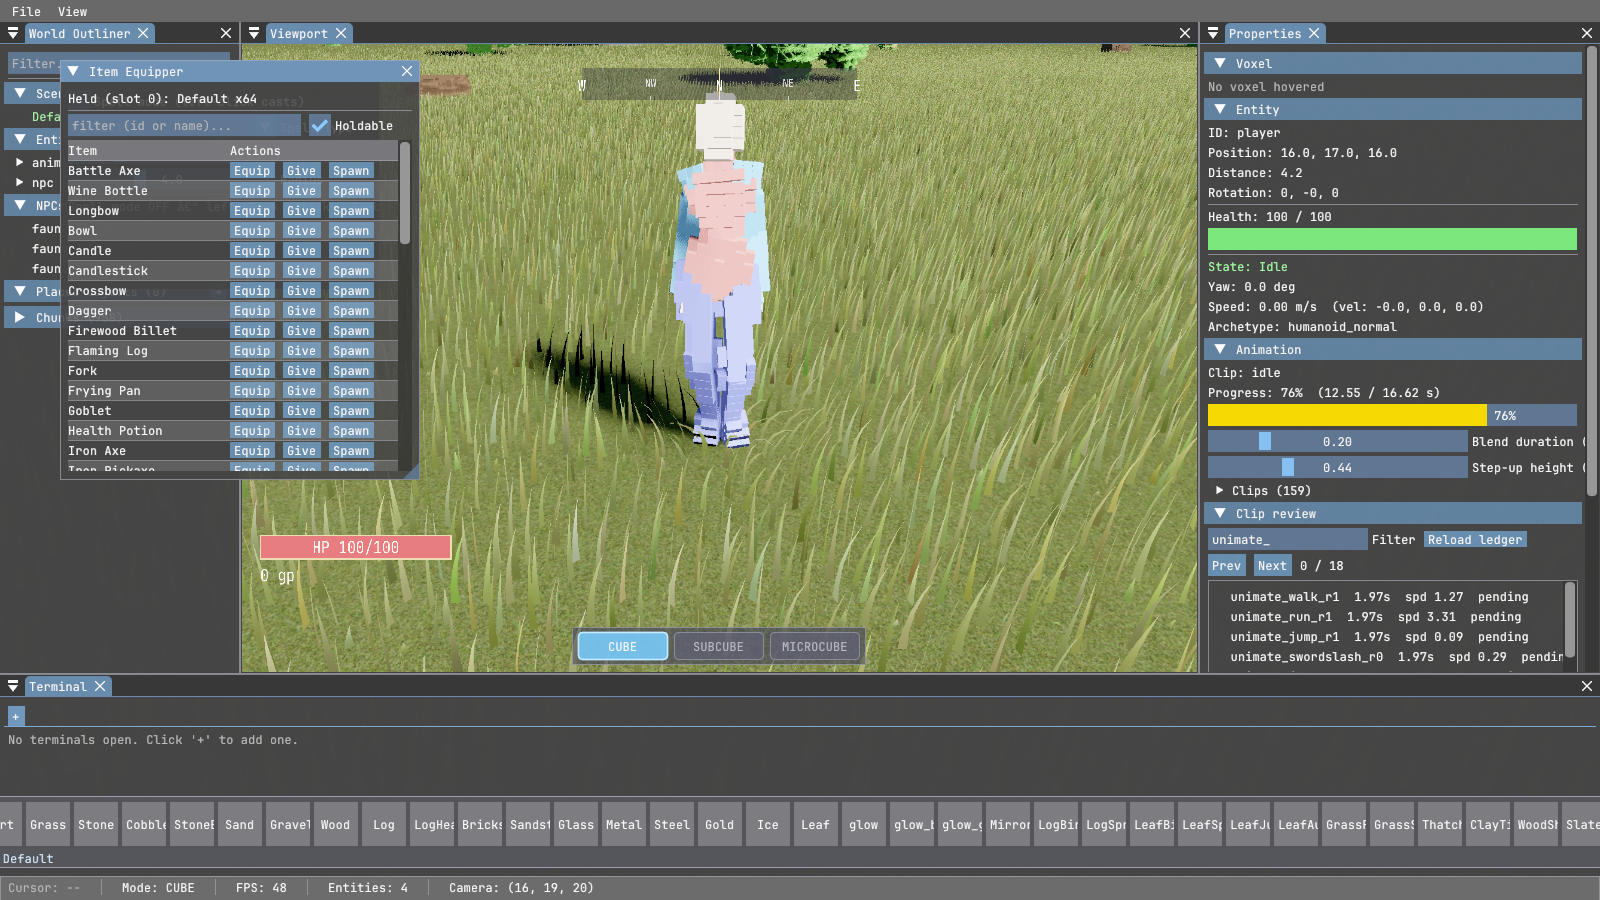
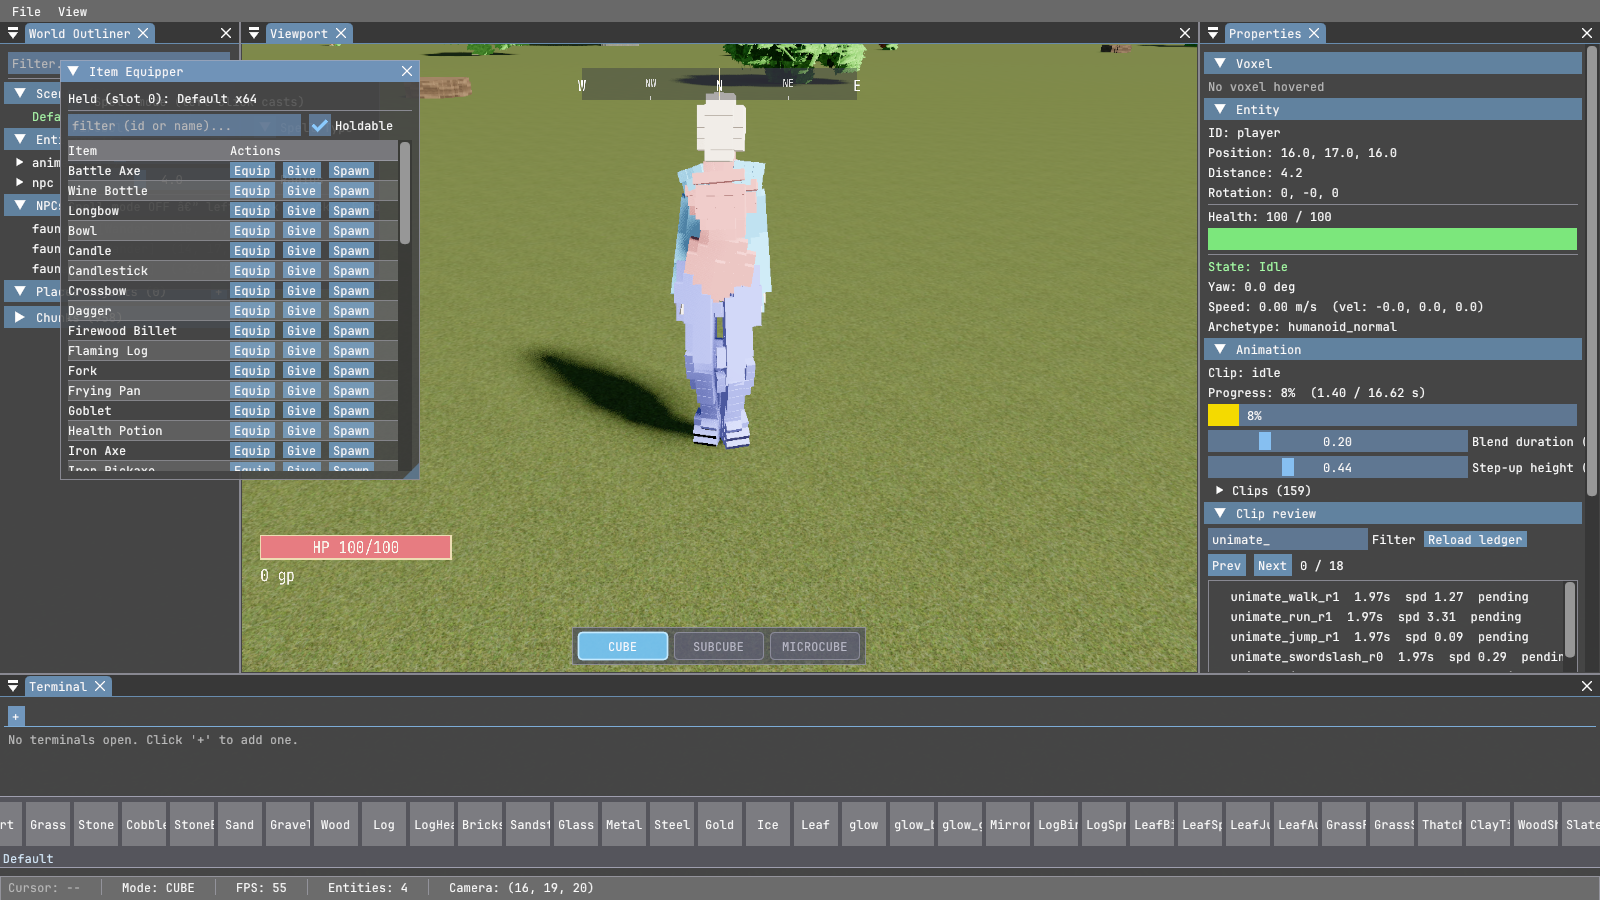
voxfound(F7.28): the region cap measured -- 6 / 6 projects switch; grass, shadows and FPS found missing
max_chunks (default 256; the default boot of a fixed world up to 4,096): Emberwake / VillageChat (1,200 chunks) boot
switched in 133 / 140 s (cost miss), totals < 0.002 %. Correction: F7.27's +12.5 % is 1/3 m quantizing to 3/8 m, not a
converter rule. The pictures: no grass blades, no character shadow, 55 vs 81 FPS on the switched world -- owed.

Changed region(s): [[0.1562, 0.0311, 0.9375, 0.7467]]

diff --git a/editor/src/Application.cpp b/editor/src/Application.cpp
@@ -15168,7 +15168,10 @@ void Application::voxFoundBoot() {
                           {"flora", w.value("flora", true)}, {"editable", true}, {"hide_world", false},
                           {"flora_window", "open"},
                           {"region", {{"from", {lo.x, lo.y, lo.z}}, {"to", {hi.x, hi.y, hi.z}}}}};
-    if (fromToday) req["source"] = "today";
+    if (fromToday) {
+        req["source"] = "today";
+        req["max_chunks"] = v.value("max_chunks", 4096);   // F7.28: a fixed world is converted whole
+    }
     Core::APICommand c;
     nlohmann::json r = nlohmann::json::object(), on = nlohmann::json::object(), st = nlohmann::json::object();   // F7.27: never null
     c.params = req;
@@ -16061,8 +16064,9 @@ void Application::handleVoxFoundRegion(const Core::APICommand& cmd, int generati
     const glm::ivec3 nC = hi - lo + 1;
     if (cmd.params.value("editable", false)) voxFoundRegionRequest = cmd.params;   // F7.9b: what a shift rebuilds
     const int count = nC.x * nC.y * nC.z;
-    if (count > 256) {
-        response = {{"error", "region over 256 chunks"}, {"chunks", count}};
+    const int maxChunks = std::clamp(cmd.params.value("max_chunks", 256), 1, 8192);   // F7.28: measured, not assumed
+    if (count > maxChunks) {
+        response = {{"error", "region over " + std::to_string(maxChunks) + " chunks"}, {"chunks", count}};
         return;
     }
     WorldGenerator gen(static_cast<WorldGenerator::GenerationType>(generationType), seed);

diff --git a/docs/VoxelFoundationPlan.md b/docs/VoxelFoundationPlan.md
@@ -3239,10 +3239,11 @@ untouched), F7.22's nav, F7.21b's furnish -- all hold.
 
 **F7.27, the switched world as the default (2026-11-23).** A project with no world.voxfound now boots switched: a
 streaming world around the camera (generator), a fixed world from TODAY's resident chunks through the converter
-("voxfound": {"enabled": false} opts out). On real projects: 4 / 6 boot switched; fixed worlds over 256 chunks
-(VillageChat, Emberwake) are refused and keep today's world; the converter inflates thin sub-cube building parts up to
-12.5 % per material (totals within 0.02 %). Owed before the deletion: a streaming "today" source for big fixed worlds
-and the converter's thin-part fidelity.
+("voxfound": {"enabled": false} opts out). On real projects 6 / 6 boot switched (F7.28: the region cap measured, big
+fixed worlds convert whole -- in ~2.2 min, a cost miss). Converted 1/3 m content quantizes to 3/8 m (+12.5 %, by
+construction; buildings reach 1/8 m by being generated there). The pictures show what the numbers did not: no grass
+blades and no character shadow on the switched world, 55 vs 81 FPS. Owed before the deletion: those, and the
+conversion's cost.
 
 **F7 status (2026-11-22).** Section 7 steps 1-6 are on the switched world, with the owed items (physics, placers,
 writers, tree reads, water solids, streaming, the boot mode). The suites (voxfound_f7_exit_suites.txt): no failure traces

diff --git a/docs/AgentContext.md b/docs/AgentContext.md
@@ -714,8 +714,9 @@ Absolute paths below (e.g. `C:\Users\<you>\...`) are machine-specific — adjust
       LOD template chain: not used inside the region -- the far tier is a question for the switch), items / LOD
       template units; nav units DONE F7.22 -- NavGraph cellsPerM 8 on the switched world); the global default ON
       (F7.27: projects without world.voxfound boot switched; opt-out "voxfound":{"enabled":false}). OWED before the
-      deletion: a streaming "today" source for fixed worlds over 256 chunks (VillageChat, Emberwake refuse) and the
-      converter's thin-part fidelity (building materials +10-12.5 %).
+      deletion (F7.28 pictures): grass / foliage blades on the switched world, character shadows onto the switched
+      terrain, the FPS gap (55 vs 81 at Emberwake's pose), the conversion cost (~2.2 min for 1,200 chunks, main thread).
+      (Big worlds now convert whole; the +12.5 % on converted 1/3 m content is quantization by construction.)
       WAS: F5.5m (the primal split -- the primal leads live at every rung, 1.4-1.8 ms; at 994 pairs 1.6-1.7 and
       hard_body 1.4-1.5 follow) as a measure before its lever, with its prediction BEFORE code. Owed: the reload
       guard's margin in the suite; the uncached pipeline compile (~1 min); an overlapping pair must not sleep (a pair asleep 102 mm deep on the lab's wall);
